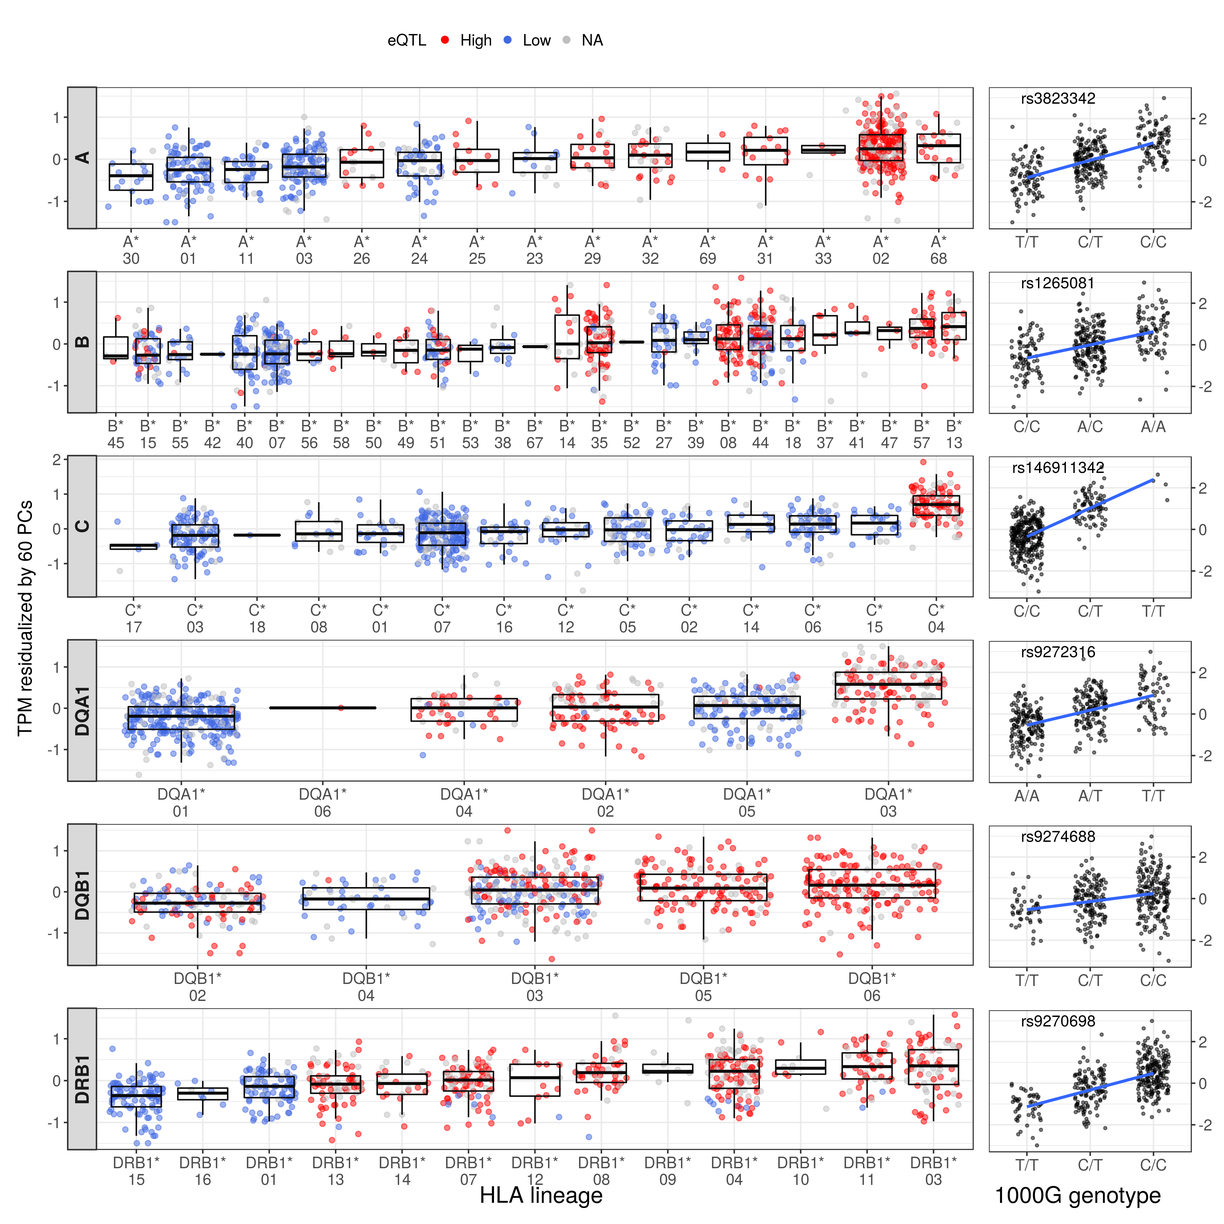
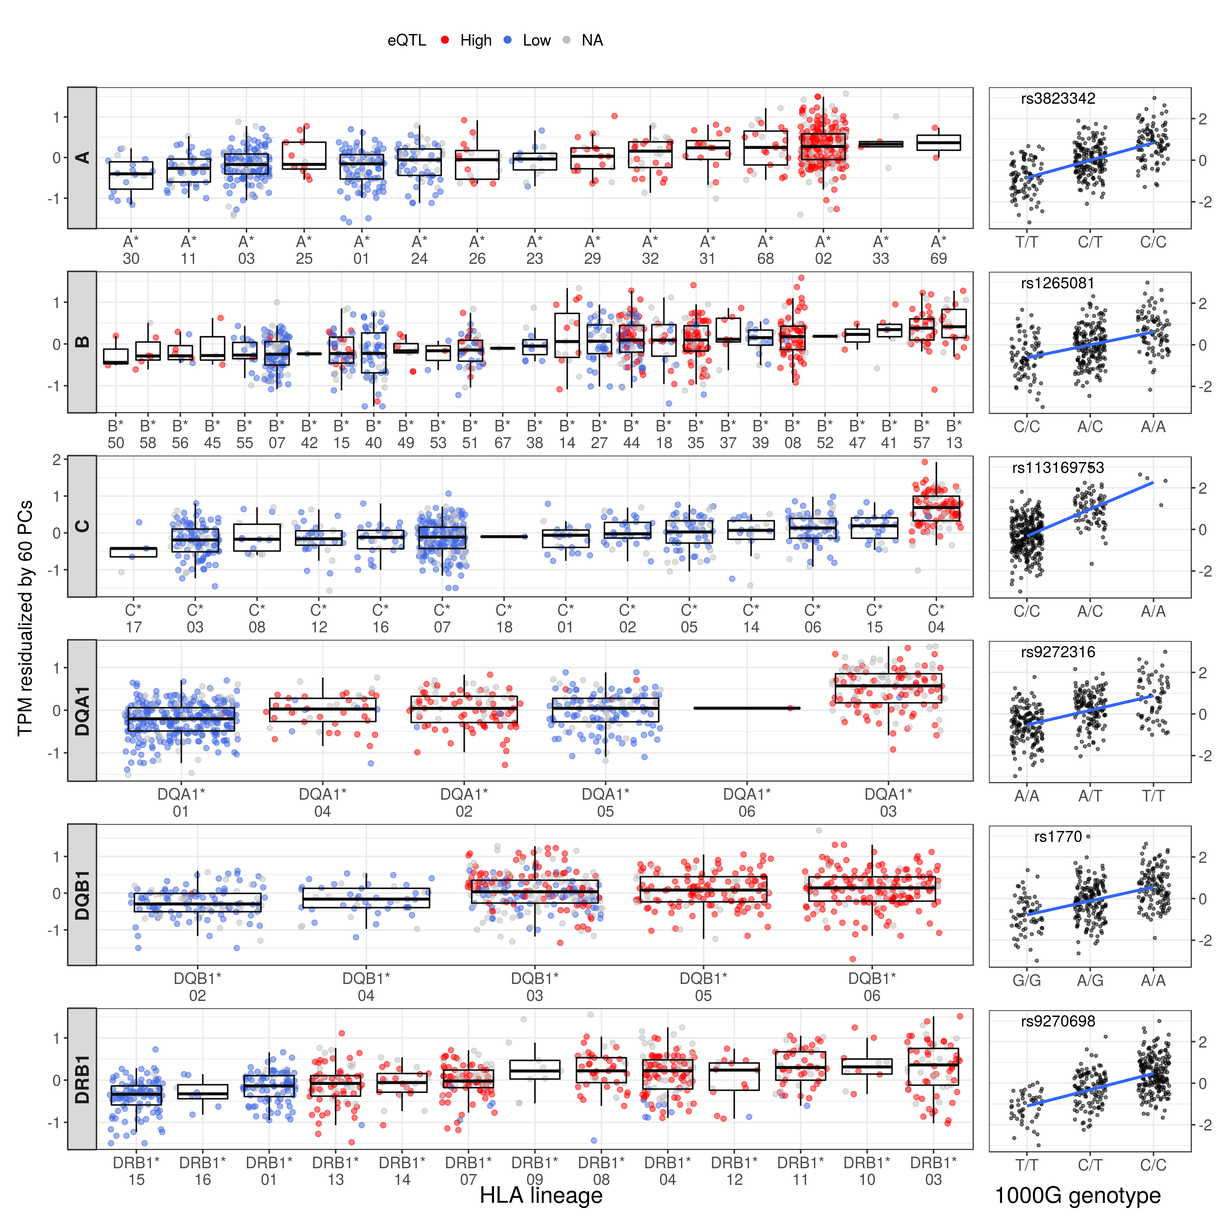
update analysis after downgrade to gencode 25

diff --git a/geuvadis_reanalysis/qtls/report.md b/geuvadis_reanalysis/qtls/report.md
@@ -36,58 +36,57 @@ Some of our eQTLs seem to mark the same biological signal as the eQTLs found by 
 
 | gene     | variant     |  rank| geuvadis\_gene    | geuvadis\_variant |    rtc|
 |:---------|:------------|-----:|:------------------|:------------------|------:|
-| HLA-A    | rs3823342   |     0| HLA-A             | rs114565353       |  0.360|
+| HLA-A    | rs3823342   |     0| HLA-A             | rs114565353       |  0.358|
 | HLA-A    | rs1655924   |     1| HLA-A             | rs114565353       |  0.998|
-| HLA-B    | rs1265081   |     0| HLA-C             | rs115899777       |  0.988|
-| HLA-B    | rs9264803   |     1| HLA-C             | rs115899777       |  0.463|
-| HLA-C    | rs146911342 |     0| HLA-C             | rs115899777       |  0.966|
-| HLA-C    | rs4098923   |     1| HLA-B             | rs137939159       |  0.962|
-| HLA-C    | rs2249741   |     2| HLA-B             | rs137939159       |  0.556|
-| HLA-DQA1 | rs9272316   |     0| HLA-DRB1          | rs116405062       |  0.974|
-| HLA-DQA1 | rs9271375   |     1| HLA-DQA1/HLA-DQB1 | rs9274660         |  0.835|
-| HLA-DQA1 | rs115808351 |     2| HLA-DQA1/HLA-DQB1 | rs9274660         |  0.779|
-| HLA-DQB1 | rs9274688   |     0| HLA-DRB1          | rs116405062       |  0.926|
-| HLA-DQB1 | rs3134977   |     1| HLA-DQA1/HLA-DQB1 | rs9274660         |  0.710|
+| HLA-B    | rs1265081   |     0| HLA-C             | rs115899777       |  0.982|
+| HLA-B    | rs9265885   |     1| HLA-B             | rs137939159       |  0.298|
+| HLA-C    | rs113169753 |     0| HLA-C             | rs115899777       |  0.977|
+| HLA-C    | rs3134776   |     1| HLA-B             | rs137939159       |  0.915|
+| HLA-C    | rs17408553  |     2| HLA-B             | rs137939159       |  0.351|
+| HLA-DQA1 | rs9272316   |     0| HLA-DRB1          | rs116405062       |  0.970|
+| HLA-DQA1 | rs9271375   |     1| HLA-DQA1/HLA-DQB1 | rs9274660         |  0.822|
+| HLA-DQA1 | rs114968045 |     2| HLA-DQA1/HLA-DQB1 | rs9274660         |  0.771|
+| HLA-DQB1 | rs1770      |     0| HLA-DQA1/HLA-DQB1 | rs9274660         |  0.996|
+| HLA-DQB1 | rs4713570   |     1| HLA-DRB1          | rs116405062       |  0.708|
 | HLA-DRB1 | rs9270698   |     0| HLA-DQA1/HLA-DQB1 | rs9274660         |  0.920|
-| HLA-DRB1 | rs1048372   |     1| HLA-DQA1/HLA-DQB1 | rs9274660         |  0.707|
-| HLA-DRB1 | rs145607970 |     2| HLA-DQA1/HLA-DQB1 | rs9274660         |  0.919|
+| HLA-DRB1 | rs1048372   |     1| HLA-DQA1/HLA-DQB1 | rs9274660         |  0.723|
+| HLA-DRB1 | rs9274063   |     2| HLA-DQA1/HLA-DQB1 | rs9274660         |  0.952|
 
 Association with GWAS traits
 ----------------------------
 
-| gene     |  rank| variant     | gwas\_variant |    rtc| trait                                           | studies                                                                                                                                                                                                                       |
-|:---------|-----:|:------------|:--------------|------:|:------------------------------------------------|:------------------------------------------------------------------------------------------------------------------------------------------------------------------------------------------------------------------------------|
-| HLA-A    |     0| rs3823342   | rs2517713     |  0.985| nasopharyngeal neoplasm                         | www.ncbi.nlm.nih.gov/pubmed/19664746                                                                                                                                                                                          |
-| HLA-A    |     1| rs1655924   | rs2523809     |  0.933| serum IgE measurement                           | www.ncbi.nlm.nih.gov/pubmed/22075330                                                                                                                                                                                          |
-| HLA-B    |     0| rs1265081   | rs1265112     |  0.997| response to reverse transcriptase inhibitor     | www.ncbi.nlm.nih.gov/pubmed/21810746                                                                                                                                                                                          |
-| HLA-B    |     1| rs9264803   | rs9264942     |  0.999| Crohn's disease                                 | www.ncbi.nlm.nih.gov/pubmed/21051598 www.ncbi.nlm.nih.gov/pubmed/20041166 www.ncbi.nlm.nih.gov/pubmed/23128233 www.ncbi.nlm.nih.gov/pubmed/26192919                                                                           |
-| HLA-B    |     1| rs9264803   | rs9264942     |  0.999| HIV-1 infection                                 | www.ncbi.nlm.nih.gov/pubmed/21051598 www.ncbi.nlm.nih.gov/pubmed/20041166 www.ncbi.nlm.nih.gov/pubmed/23128233 www.ncbi.nlm.nih.gov/pubmed/26192919                                                                           |
-| HLA-B    |     1| rs9264803   | rs9264942     |  0.999| inflammatory bowel disease                      | www.ncbi.nlm.nih.gov/pubmed/21051598 www.ncbi.nlm.nih.gov/pubmed/20041166 www.ncbi.nlm.nih.gov/pubmed/23128233 www.ncbi.nlm.nih.gov/pubmed/26192919                                                                           |
-| HLA-C    |     0| rs146911342 | rs9263963     |  0.973| serum IgG glycosylation measurement             | www.ncbi.nlm.nih.gov/pubmed/23382691                                                                                                                                                                                          |
-| HLA-C    |     1| rs4098923   | rs3869109     |  0.996| coronary heart disease                          | www.ncbi.nlm.nih.gov/pubmed/22319020                                                                                                                                                                                          |
-| HLA-C    |     2| rs2249741   | rs9264638     |  0.997| beta-2 microglobulin measurement                | www.ncbi.nlm.nih.gov/pubmed/23417110                                                                                                                                                                                          |
-| HLA-DQA1 |     0| rs9272316   | rs2395185     |  0.983| antinuclear antibody measurement                | www.ncbi.nlm.nih.gov/pubmed/19122664 www.ncbi.nlm.nih.gov/pubmed/22286212 www.ncbi.nlm.nih.gov/pubmed/19915573 www.ncbi.nlm.nih.gov/pubmed/23143601 www.ncbi.nlm.nih.gov/pubmed/25186300 www.ncbi.nlm.nih.gov/pubmed/20228799 |
-| HLA-DQA1 |     0| rs9272316   | rs2395185     |  0.983| Hodgkins lymphoma                               | www.ncbi.nlm.nih.gov/pubmed/19122664 www.ncbi.nlm.nih.gov/pubmed/22286212 www.ncbi.nlm.nih.gov/pubmed/19915573 www.ncbi.nlm.nih.gov/pubmed/23143601 www.ncbi.nlm.nih.gov/pubmed/25186300 www.ncbi.nlm.nih.gov/pubmed/20228799 |
-| HLA-DQA1 |     0| rs9272316   | rs2395185     |  0.983| lung carcinoma                                  | www.ncbi.nlm.nih.gov/pubmed/19122664 www.ncbi.nlm.nih.gov/pubmed/22286212 www.ncbi.nlm.nih.gov/pubmed/19915573 www.ncbi.nlm.nih.gov/pubmed/23143601 www.ncbi.nlm.nih.gov/pubmed/25186300 www.ncbi.nlm.nih.gov/pubmed/20228799 |
-| HLA-DQA1 |     0| rs9272316   | rs2395185     |  0.983| ulcerative colitis                              | www.ncbi.nlm.nih.gov/pubmed/19122664 www.ncbi.nlm.nih.gov/pubmed/22286212 www.ncbi.nlm.nih.gov/pubmed/19915573 www.ncbi.nlm.nih.gov/pubmed/23143601 www.ncbi.nlm.nih.gov/pubmed/25186300 www.ncbi.nlm.nih.gov/pubmed/20228799 |
-| HLA-DQA1 |     0| rs9272316   | rs9268853     |  0.983| lymphoma                                        | www.ncbi.nlm.nih.gov/pubmed/21297633 www.ncbi.nlm.nih.gov/pubmed/23349640 www.ncbi.nlm.nih.gov/pubmed/23511034                                                                                                                |
-| HLA-DQA1 |     0| rs9272316   | rs9268853     |  0.983| ulcerative colitis                              | www.ncbi.nlm.nih.gov/pubmed/21297633 www.ncbi.nlm.nih.gov/pubmed/23349640 www.ncbi.nlm.nih.gov/pubmed/23511034                                                                                                                |
-| HLA-DQA1 |     0| rs9272316   | rs9268905     |  0.983| Cystic fibrosis                                 | www.ncbi.nlm.nih.gov/pubmed/21602797                                                                                                                                                                                          |
-| HLA-DQA1 |     0| rs9272316   | rs9268923     |  0.983| ulcerative colitis                              | www.ncbi.nlm.nih.gov/pubmed/20228798 www.ncbi.nlm.nih.gov/pubmed/26819262                                                                                                                                                     |
-| HLA-DQA1 |     0| rs9272316   | rs9268923     |  0.983| NA                                              | www.ncbi.nlm.nih.gov/pubmed/20228798 www.ncbi.nlm.nih.gov/pubmed/26819262                                                                                                                                                     |
-| HLA-DQA1 |     1| rs9271375   | rs3135338     |  0.985| multiple sclerosis                              | www.ncbi.nlm.nih.gov/pubmed/20159113                                                                                                                                                                                          |
-| HLA-DQA1 |     2| rs115808351 | rs9461776     |  1.000| cryoglobulinemia, Chronic Hepatitis C infection | www.ncbi.nlm.nih.gov/pubmed/25030430                                                                                                                                                                                          |
-| HLA-DQB1 |     0| rs9274688   | rs2647045     |  0.996| lymphoma                                        | www.ncbi.nlm.nih.gov/pubmed/23349640                                                                                                                                                                                          |
-| HLA-DQB1 |     1| rs3134977   | rs2647044     |  0.999| pulmonary function measurement, FEV/FEC ratio   | www.ncbi.nlm.nih.gov/pubmed/17632545 www.ncbi.nlm.nih.gov/pubmed/21946350                                                                                                                                                     |
-| HLA-DQB1 |     1| rs3134977   | rs2647044     |  0.999| type I diabetes mellitus                        | www.ncbi.nlm.nih.gov/pubmed/17632545 www.ncbi.nlm.nih.gov/pubmed/21946350                                                                                                                                                     |
-| HLA-DQB1 |     1| rs3134977   | rs3129716     |  0.999| systemic lupus erythematosus                    | www.ncbi.nlm.nih.gov/pubmed/26316170                                                                                                                                                                                          |
-| HLA-DRB1 |     0| rs9270698   | rs9271060     |  0.992| Crohn's disease                                 | www.ncbi.nlm.nih.gov/pubmed/26891255                                                                                                                                                                                          |
-| HLA-DRB1 |     0| rs9270698   | rs9271100     |  0.992| leprosy                                         | www.ncbi.nlm.nih.gov/pubmed/19838193 www.ncbi.nlm.nih.gov/pubmed/25642632 www.ncbi.nlm.nih.gov/pubmed/26192919                                                                                                                |
-| HLA-DRB1 |     0| rs9270698   | rs9271100     |  0.992| systemic lupus erythematosus                    | www.ncbi.nlm.nih.gov/pubmed/19838193 www.ncbi.nlm.nih.gov/pubmed/25642632 www.ncbi.nlm.nih.gov/pubmed/26192919                                                                                                                |
-| HLA-DRB1 |     0| rs9270698   | rs9271100     |  0.992| ulcerative colitis                              | www.ncbi.nlm.nih.gov/pubmed/19838193 www.ncbi.nlm.nih.gov/pubmed/25642632 www.ncbi.nlm.nih.gov/pubmed/26192919                                                                                                                |
-| HLA-DRB1 |     0| rs9270698   | rs9271192     |  0.992| Alzheimers disease                              | www.ncbi.nlm.nih.gov/pubmed/24162737                                                                                                                                                                                          |
-| HLA-DRB1 |     1| rs1048372   | rs9271348     |  1.000| rheumatoid arthritis                            | www.ncbi.nlm.nih.gov/pubmed/24532677                                                                                                                                                                                          |
-| HLA-DRB1 |     2| rs145607970 | rs35597309    |  0.998| esophageal squamous cell carcinoma              | www.ncbi.nlm.nih.gov/pubmed/25129146                                                                                                                                                                                          |
+| gene     |  rank| variant     | gwas\_variant |    rtc| trait                                            | studies                                                                                                                                                                                                                       |
+|:---------|-----:|:------------|:--------------|------:|:-------------------------------------------------|:------------------------------------------------------------------------------------------------------------------------------------------------------------------------------------------------------------------------------|
+| HLA-A    |     0| rs3823342   | rs2517713     |  0.984| nasopharyngeal neoplasm                          | www.ncbi.nlm.nih.gov/pubmed/19664746                                                                                                                                                                                          |
+| HLA-A    |     1| rs1655924   | rs2571391     |  0.943| serum IgE measurement                            | www.ncbi.nlm.nih.gov/pubmed/22075330                                                                                                                                                                                          |
+| HLA-B    |     0| rs1265081   | rs1265112     |  0.997| response to reverse transcriptase inhibitor      | www.ncbi.nlm.nih.gov/pubmed/21810746                                                                                                                                                                                          |
+| HLA-B    |     1| rs9265885   | rs2442719     |  0.999| HIV-1 infection, HIV viral set point measurement | www.ncbi.nlm.nih.gov/pubmed/26039976                                                                                                                                                                                          |
+| HLA-C    |     0| rs113169753 | rs9263963     |  0.971| serum IgG glycosylation measurement              | www.ncbi.nlm.nih.gov/pubmed/23382691                                                                                                                                                                                          |
+| HLA-C    |     1| rs3134776   | rs1265159     |  0.990| membranous glomerulonephritis                    | www.ncbi.nlm.nih.gov/pubmed/21323541                                                                                                                                                                                          |
+| HLA-C    |     2| rs17408553  | rs2524079     |  0.998| lymphocyte count                                 | www.ncbi.nlm.nih.gov/pubmed/21738480                                                                                                                                                                                          |
+| HLA-DQA1 |     0| rs9272316   | rs2395185     |  0.981| antinuclear antibody measurement                 | www.ncbi.nlm.nih.gov/pubmed/19122664 www.ncbi.nlm.nih.gov/pubmed/22286212 www.ncbi.nlm.nih.gov/pubmed/19915573 www.ncbi.nlm.nih.gov/pubmed/23143601 www.ncbi.nlm.nih.gov/pubmed/25186300 www.ncbi.nlm.nih.gov/pubmed/20228799 |
+| HLA-DQA1 |     0| rs9272316   | rs2395185     |  0.981| Hodgkins lymphoma                                | www.ncbi.nlm.nih.gov/pubmed/19122664 www.ncbi.nlm.nih.gov/pubmed/22286212 www.ncbi.nlm.nih.gov/pubmed/19915573 www.ncbi.nlm.nih.gov/pubmed/23143601 www.ncbi.nlm.nih.gov/pubmed/25186300 www.ncbi.nlm.nih.gov/pubmed/20228799 |
+| HLA-DQA1 |     0| rs9272316   | rs2395185     |  0.981| lung carcinoma                                   | www.ncbi.nlm.nih.gov/pubmed/19122664 www.ncbi.nlm.nih.gov/pubmed/22286212 www.ncbi.nlm.nih.gov/pubmed/19915573 www.ncbi.nlm.nih.gov/pubmed/23143601 www.ncbi.nlm.nih.gov/pubmed/25186300 www.ncbi.nlm.nih.gov/pubmed/20228799 |
+| HLA-DQA1 |     0| rs9272316   | rs2395185     |  0.981| ulcerative colitis                               | www.ncbi.nlm.nih.gov/pubmed/19122664 www.ncbi.nlm.nih.gov/pubmed/22286212 www.ncbi.nlm.nih.gov/pubmed/19915573 www.ncbi.nlm.nih.gov/pubmed/23143601 www.ncbi.nlm.nih.gov/pubmed/25186300 www.ncbi.nlm.nih.gov/pubmed/20228799 |
+| HLA-DQA1 |     0| rs9272316   | rs9268853     |  0.981| lymphoma                                         | www.ncbi.nlm.nih.gov/pubmed/21297633 www.ncbi.nlm.nih.gov/pubmed/23349640 www.ncbi.nlm.nih.gov/pubmed/23511034                                                                                                                |
+| HLA-DQA1 |     0| rs9272316   | rs9268853     |  0.981| ulcerative colitis                               | www.ncbi.nlm.nih.gov/pubmed/21297633 www.ncbi.nlm.nih.gov/pubmed/23349640 www.ncbi.nlm.nih.gov/pubmed/23511034                                                                                                                |
+| HLA-DQA1 |     0| rs9272316   | rs9268905     |  0.981| Cystic fibrosis                                  | www.ncbi.nlm.nih.gov/pubmed/21602797                                                                                                                                                                                          |
+| HLA-DQA1 |     0| rs9272316   | rs9268923     |  0.981| ulcerative colitis                               | www.ncbi.nlm.nih.gov/pubmed/20228798 www.ncbi.nlm.nih.gov/pubmed/26819262                                                                                                                                                     |
+| HLA-DQA1 |     0| rs9272316   | rs9268923     |  0.981| NA                                               | www.ncbi.nlm.nih.gov/pubmed/20228798 www.ncbi.nlm.nih.gov/pubmed/26819262                                                                                                                                                     |
+| HLA-DQA1 |     1| rs9271375   | rs3135338     |  0.986| multiple sclerosis                               | www.ncbi.nlm.nih.gov/pubmed/20159113                                                                                                                                                                                          |
+| HLA-DQA1 |     2| rs114968045 | rs9461776     |  0.997| cryoglobulinemia, Chronic Hepatitis C infection  | www.ncbi.nlm.nih.gov/pubmed/25030430                                                                                                                                                                                          |
+| HLA-DQB1 |     0| rs1770      | rs6927022     |  0.998| ulcerative colitis                               | www.ncbi.nlm.nih.gov/pubmed/23128233                                                                                                                                                                                          |
+| HLA-DQB1 |     1| rs4713570   | rs10484561    |  0.995| neoplasm of mature B-cells                       | www.ncbi.nlm.nih.gov/pubmed/20639881                                                                                                                                                                                          |
+| HLA-DQB1 |     2| rs9275596   | rs9275596     |  1.000| IGA glomerulonephritis                           | www.ncbi.nlm.nih.gov/pubmed/21399633 www.ncbi.nlm.nih.gov/pubmed/25305756 www.ncbi.nlm.nih.gov/pubmed/25710614                                                                                                                |
+| HLA-DQB1 |     2| rs9275596   | rs9275596     |  1.000| kidney disease                                   | www.ncbi.nlm.nih.gov/pubmed/21399633 www.ncbi.nlm.nih.gov/pubmed/25305756 www.ncbi.nlm.nih.gov/pubmed/25710614                                                                                                                |
+| HLA-DQB1 |     2| rs9275596   | rs9275596     |  1.000| peanut allergy measurement                       | www.ncbi.nlm.nih.gov/pubmed/21399633 www.ncbi.nlm.nih.gov/pubmed/25305756 www.ncbi.nlm.nih.gov/pubmed/25710614                                                                                                                |
+| HLA-DRB1 |     0| rs9270698   | rs9271060     |  0.992| Crohn's disease                                  | www.ncbi.nlm.nih.gov/pubmed/26891255                                                                                                                                                                                          |
+| HLA-DRB1 |     0| rs9270698   | rs9271100     |  0.992| leprosy                                          | www.ncbi.nlm.nih.gov/pubmed/19838193 www.ncbi.nlm.nih.gov/pubmed/25642632 www.ncbi.nlm.nih.gov/pubmed/26192919                                                                                                                |
+| HLA-DRB1 |     0| rs9270698   | rs9271100     |  0.992| systemic lupus erythematosus                     | www.ncbi.nlm.nih.gov/pubmed/19838193 www.ncbi.nlm.nih.gov/pubmed/25642632 www.ncbi.nlm.nih.gov/pubmed/26192919                                                                                                                |
+| HLA-DRB1 |     0| rs9270698   | rs9271100     |  0.992| ulcerative colitis                               | www.ncbi.nlm.nih.gov/pubmed/19838193 www.ncbi.nlm.nih.gov/pubmed/25642632 www.ncbi.nlm.nih.gov/pubmed/26192919                                                                                                                |
+| HLA-DRB1 |     0| rs9270698   | rs9271192     |  0.992| Alzheimers disease                               | www.ncbi.nlm.nih.gov/pubmed/24162737                                                                                                                                                                                          |
+| HLA-DRB1 |     1| rs1048372   | rs9271348     |  0.999| rheumatoid arthritis                             | www.ncbi.nlm.nih.gov/pubmed/24532677                                                                                                                                                                                          |
+| HLA-DRB1 |     2| rs9274063   | rs35597309    |  0.998| esophageal squamous cell carcinoma               | www.ncbi.nlm.nih.gov/pubmed/25129146                                                                                                                                                                                          |
 
 Trans-eQTLs
 -----------
@@ -96,7 +95,7 @@ Trans-eQTLs
 
 | gene\_name | variant\_id |  variant\_chr|  variant\_pos|  log10\_nom\_pval|
 |:-----------|:------------|-------------:|-------------:|-----------------:|
-| HLA-DQA1   | rs532173125 |             2|     178431654|          24.33378|
-| HLA-DQA1   | rs145339215 |             2|     178431521|          23.98334|
-| HLA-DQA1   | rs3997878   |             2|     178431899|          22.15065|
-| HLA-DQA1   | rs141354030 |             2|     178451007|          14.99886|
+| HLA-DQA1   | rs3997880   |             2|     178431654|          22.02544|
+| HLA-DQA1   | rs145339215 |             2|     178431521|          21.92733|
+| HLA-DQA1   | rs3997878   |             2|     178431899|          21.20140|
+| HLA-DQA1   | rs141354030 |             2|     178451007|          15.41356|
